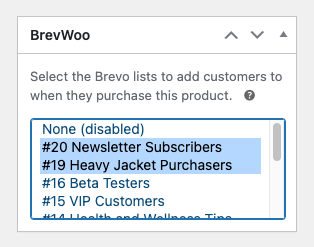
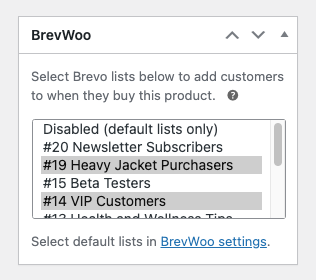
Add "Default Brevo lists" plugin option
- Improve consistency of variable casing
- Improve ensuring Brevo lists IDs are integers

diff --git a/includes/admin.php b/includes/admin.php
@@ -141,6 +141,29 @@ class BrevWooAdmin
             ]
         );
 
+        // Add "Default Brevo lists" setting field
+        add_settings_field(
+            'brevwoo_default_brevo_lists', // HTML id
+            __('Default Brevo lists', 'brevwoo'), // field title
+            [$this, 'renderDefaultListsInput'], // callback
+            'brevwoo-admin', // page
+            'brevwoo_setting_section', // section
+            [
+                'id' => 'brevwoo_default_brevo_lists',
+                'option_name' => 'brevwoo_default_brevo_lists',
+            ]
+        );
+
+        // Register "Default Brevo lists" setting
+        register_setting(
+            'brevwoo_option_group', // settings group name
+            'brevwoo_default_brevo_lists', // option name
+            [
+                'default' => [],
+                'sanitize_callback' => [$this, 'sanitizeDefaultListsInput'],
+            ]
+        );
+
         // Add "Add to Brevo trigger" setting field
         add_settings_field(
             'brevwoo_order_status_trigger', // HTML id
@@ -246,15 +269,78 @@ class BrevWooAdmin
     }
 
     /**
-     * Sanitize "Add to Brevo trigger" select input.
+     * Render the "Default Brevo lists" field.
      */
-    public function sanitizeOrderStatusTriggerInput($input)
+    public function renderDefaultListsInput($val)
     {
-        $valid = ['completed', 'processing', 'pending'];
-        if (in_array($input, $valid, true)) {
-            return $input;
+        $field_id = $val['id'];
+        $name = $val['option_name'];
+        $default_brevo_lists = get_option($name, []);
+
+        if (!$this->apiClient) {
+            echo '<p>' . esc_html__('Unavailable', 'brevwoo') . '</p>';
+            return;
         }
-        return 'completed';
+
+        try {
+            $result = $this->apiClient->getLists();
+            $lists = [
+                '' => esc_html__(
+                    'Disabled (product-specific lists only)',
+                    'brevwoo'
+                ),
+            ];
+            foreach ($result['lists'] as $list) {
+                $lists[$list['id']] = '#' . $list['id'] . ' ' . $list['name'];
+            }
+
+            echo '<select id="' .
+                esc_attr($field_id) .
+                '" name="' .
+                esc_attr($name) .
+                '[]" style="min-height: 100px; width: 100%;" multiple>';
+            foreach ($lists as $id => $name) {
+                $selected =
+                    (empty($default_brevo_lists) && $id === '') ||
+                    in_array($id, $default_brevo_lists)
+                        ? ' selected'
+                        : '';
+                echo '<option value="' .
+                    esc_attr($id) .
+                    '"' .
+                    esc_attr($selected) .
+                    '>' .
+                    esc_html($name) .
+                    '</option>';
+            }
+            echo '</select>';
+
+            echo '<p class="description">' .
+                esc_html__(
+                    'Select the Brevo lists customers who buy any product will be added to.',
+                    'brevwoo'
+                ) .
+                '</p>';
+        } catch (Exception $e) {
+            echo '<p>' . esc_html__('Unavailable', 'brevwoo') . '</p>';
+        }
+    }
+
+    /**
+     * Sanitize "Default Brevo lists" multi-select input.
+     */
+    public function sanitizeDefaultListsInput($input)
+    {
+        // Ensure $input is an array
+        $input = (array) $input;
+
+        // Sanitize each element in the array
+        $input = array_map('sanitize_text_field', $input);
+
+        // Strip out any non-list IDs (including 'Disabled' option)
+        $input = array_filter($input);
+
+        return $input;
     }
 
     /**
@@ -294,6 +380,18 @@ class BrevWooAdmin
                 'brevwoo'
             ) .
             '</p>';
+    }
+
+    /**
+     * Sanitize "Add to Brevo trigger" select input.
+     */
+    public function sanitizeOrderStatusTriggerInput($input)
+    {
+        $valid = ['completed', 'processing', 'pending'];
+        if (in_array($input, $valid, true)) {
+            return $input;
+        }
+        return 'completed';
     }
 
     /**
@@ -345,14 +443,16 @@ class BrevWooAdmin
 
         try {
             $result = $this->apiClient->getLists();
-            $lists = ['' => esc_html__('None (disabled)', 'brevwoo')];
+            $lists = [
+                '' => esc_html__('Disabled (default lists only)', 'brevwoo'),
+            ];
             foreach ($result['lists'] as $list) {
                 $lists[$list['id']] = '#' . $list['id'] . ' ' . $list['name'];
             }
 
             echo '<p class="howto">' .
                 esc_html__(
-                    'Select the Brevo lists to add customers to when they purchase this product.',
+                    'Select Brevo lists below to add customers to when they buy this product.',
                     'brevwoo'
                 ) .
                 '<span class="woocommerce-help-tip" style="margin-bottom: 1px;" data-tip="' .
@@ -384,6 +484,24 @@ class BrevWooAdmin
                     '</option>';
             }
             echo '</select>';
+            printf(
+                '<p class="howto">%s</p>',
+                sprintf(
+                    // translators: %s is a link to the BrevWoo settings page
+                    esc_html__('Select default lists in %s.', 'brevwoo'),
+                    '<a href="' .
+                        esc_url(
+                            add_query_arg(
+                                'page',
+                                $this->plugin_name,
+                                get_admin_url() . 'options-general.php'
+                            )
+                        ) .
+                        '">' .
+                        esc_html__('BrevWoo settings', 'brevwoo') .
+                        '</a>'
+                )
+            );
         } catch (Exception $e) {
             echo '<div class="notice notice-error notice-alt inline">
                 <p><strong>' .
@@ -402,22 +520,22 @@ class BrevWooAdmin
     public function saveSelectedLists($post_id)
     {
         // Verify nonce, user permission, and return early if checks fail
-        $nonceIsValid =
+        $nonce_valid =
             isset($_POST['_wpnonce']) &&
             wp_verify_nonce($_POST['_wpnonce'], 'update-post_' . $post_id);
-        $userCanEdit = current_user_can('edit_product', $post_id);
-        if (!$nonceIsValid || !$userCanEdit) {
+        $can_edit = current_user_can('edit_product', $post_id);
+        if (!$nonce_valid || !$can_edit) {
             return;
         }
 
         if (isset($_POST['brevwoo_brevo_list_ids'])) {
-            // Sanitize the options
+            // Sanitize each element in the array
             $brevo_list_ids = array_map(
                 'sanitize_text_field',
                 $_POST['brevwoo_brevo_list_ids']
             );
 
-            // Strip out any non-list IDs (including 'None' option)
+            // Strip out any non-list IDs (including 'Disabled' option)
             $brevo_list_ids = array_filter($brevo_list_ids);
 
             // Delete all current lists (user may be deselecting all)
@@ -438,16 +556,23 @@ class BrevWooAdmin
     public function processWcOrder($order_id)
     {
         $order = wc_get_order($order_id);
+        $default_list_ids = array_map(
+            'intval',
+            get_option('brevwoo_default_brevo_lists', [])
+        );
 
         foreach ($order->get_items() as $item) {
             $product_id = $item->get_product_id();
-            $brevo_list_ids = get_post_meta(
-                $product_id,
-                'brevwoo_brevo_list_ids'
+            $product_list_ids = array_map(
+                'intval',
+                get_post_meta($product_id, 'brevwoo_brevo_list_ids')
+            );
+            $combined_list_ids = array_unique(
+                array_merge($default_list_ids, $product_list_ids)
             );
 
-            if (!empty($brevo_list_ids)) {
-                $this->addOrUpdateBrevoContact($order, $brevo_list_ids);
+            if (!empty($combined_list_ids)) {
+                $this->addOrUpdateBrevoContact($order, $combined_list_ids);
             }
         }
     }
@@ -456,7 +581,7 @@ class BrevWooAdmin
      * Create or update a Brevo contact.
      * @SuppressWarnings(PHPMD.MissingImport)
      */
-    public function addOrUpdateBrevoContact($order, $listIds)
+    public function addOrUpdateBrevoContact($order, $list_ids)
     {
         if (!$this->apiClient) {
             error_log(
@@ -484,12 +609,12 @@ class BrevWooAdmin
                 'ORDER_PRICE' => $order_total,
                 'ORDER_DATE' => $order_date,
             ],
-            'listIds' => array_map('intval', $listIds), // Ensure listIds are integers
+            'list_ids' => $list_ids,
         ]);
 
         try {
             $this->apiClient->createOrUpdateContact($createContact);
-            $this->logContactAddedToBrevo($email, $listIds, strval($order_id));
+            $this->logContactAddedToBrevo($email, $list_ids, strval($order_id));
         } catch (Exception $e) {
             error_log(
                 'BrevWoo: Error creating or updating Brevo contact: ' .
@@ -501,29 +626,29 @@ class BrevWooAdmin
     /**
      * Log Brevo contact add to Activity Log plugin (if installed).
      */
-    private function logContactAddedToBrevo($email, $listIds, $orderId)
+    private function logContactAddedToBrevo($email, $list_ids, $order_id)
     {
         if (!function_exists('aal_insert_log')) {
             return;
         }
 
-        $logMessage = sprintf(
+        $log_message = sprintf(
             '%s added to Brevo lists %s via order #%s',
             $email,
             implode(
                 ', ',
-                array_map(function ($listId) {
-                    return '#' . $listId;
-                }, $listIds)
+                array_map(function ($list_id) {
+                    return '#' . $list_id;
+                }, $list_ids)
             ),
-            $orderId
+            $order_id
         );
 
         aal_insert_log([
             'action' => 'complete',
             'object_type' => 'Users',
             'object_subtype' => 'BrevWoo',
-            'object_name' => $logMessage,
+            'object_name' => $log_message,
         ]);
     }
 

diff --git a/brevwoo.php b/brevwoo.php
@@ -4,7 +4,7 @@
  * Plugin Name:       BrevWoo
  * Plugin URI:        http://github.com/AlecRust/brevwoo
  * GitHub Plugin URI: AlecRust/brevwoo
- * Description:       Connect WooCommerce products to Brevo lists.
+ * Description:       Simple and reliable WooCommerce to Brevo integration.
  * Version:           0.0.4
  * Author:            Alec Rust
  * Author URI:        https://www.alecrust.com/

diff --git a/uninstall.php b/uninstall.php
@@ -13,4 +13,5 @@ if (!defined('WP_UNINSTALL_PLUGIN')) {
 
 // Delete the plugin options from the wp_options table
 delete_option('brevwoo_brevo_api_key');
+delete_option('brevwoo_default_brevo_lists');
 delete_option('brevwoo_order_status_trigger');

diff --git a/README.md b/README.md
@@ -7,9 +7,7 @@
 
 > WordPress plugin to integrate WooCommerce with Brevo
 
-Allows connecting each WooCommerce product to any number of Brevo lists.
-
-When a customer buys the product, they are added to the selected lists.
+Set default Brevo lists that customers are added to when they buy a product, and/or set lists for specific products.
 
 ## Features
 
